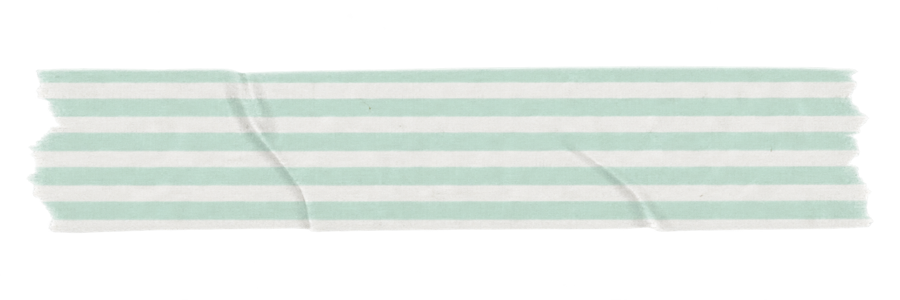
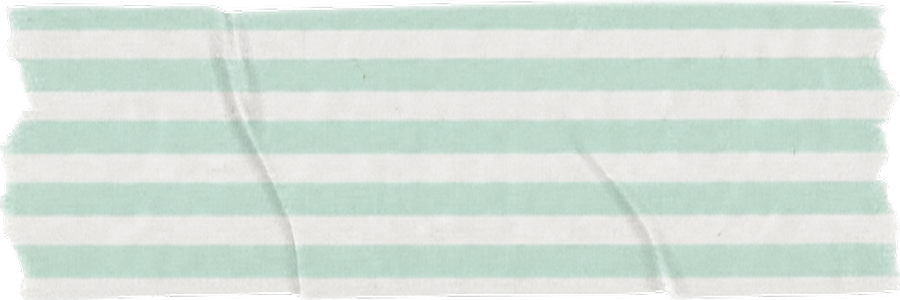
style: 마테 실크기 통일 및 차분한 패턴 교체

diff --git a/prototype/index.html b/prototype/index.html
@@ -415,7 +415,7 @@ body.framed .cork{min-height:816px;border-radius:30px 30px 2px 2px}
 .sticker.tx-dots::before,.sticker.me::before{opacity:0}
 .sticker.tx-dots{color:#1d1a17;text-shadow:0 0 3px #f5f0e4, 0 0 2px #f5f0e4}
 .sticker.me{width:132px;height:44px;min-width:132px;min-height:44px}
-.sticker.tape-photo{width:120px;height:50px;min-width:120px;min-height:50px;padding:10px 14px 9px!important;justify-content:center}
+.sticker.tape-photo{width:120px;height:50px;min-width:120px;min-height:50px;padding:10px 7px 9px!important;justify-content:center}
 .sticker.tape-photo::before{opacity:0}
 .sticker .tape-design{object-fit:fill;clip-path:none}
 
@@ -947,16 +947,16 @@ const OTHERS = [
 const ME_STYLE = { id:'me', bg:'#efe6d3', deco:'sparkle', dc:'#d6b565', rad:'10px' };
 
 const TAPE_DESIGNS = [
-  { id:'blush',         src:'assets/tape/tape-blush.png' },
   { id:'mint-stripe',   src:'assets/tape/tape-mint-stripe.png' },
   { id:'purple-dot',    src:'assets/tape/tape-purple-dot.png' },
   { id:'red-grid',      src:'assets/tape/tape-red-grid.png' },
-  { id:'orange-gingham',    src:'assets/tape/tape-orange-gingham.png' },
-  { id:'multicolor-plaid',  src:'assets/tape/tape-multicolor-plaid.png' },
-  { id:'blue-dot',          src:'assets/tape/tape-blue-dot.png' },
   { id:'mint-horizontal',   src:'assets/tape/tape-mint-horizontal.png' },
+  { id:'gray-grid',         src:'assets/tape/tape-gray-grid.png' },
+  { id:'ivory-check',       src:'assets/tape/tape-ivory-check.png' },
+  { id:'yellow-blue-stripe',src:'assets/tape/tape-yellow-blue-stripe.png' },
+  { id:'pastel-vertical',   src:'assets/tape/tape-pastel-vertical.png' },
 ];
-const TAPE_KEY = 'obt-tape-map-v3';
+const TAPE_KEY = 'obt-tape-map-v4';
 let tapeMap = {};
 try { tapeMap = JSON.parse(localStorage.getItem(TAPE_KEY)) || {}; } catch(e){}
 
